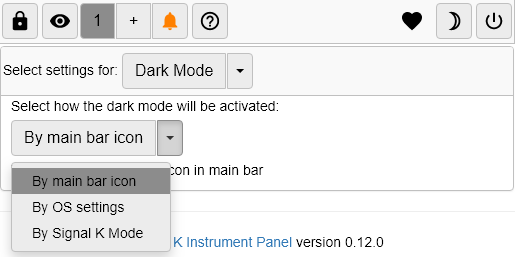
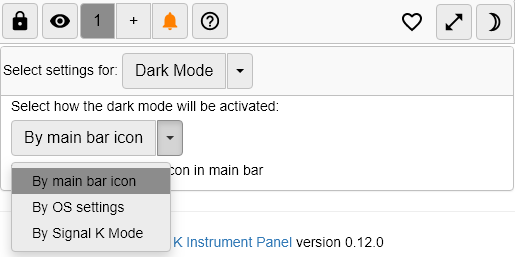
chore: updating help with new features

Changed region(s): [[0.8388, 0.0, 0.9942, 0.1556], [0.7767, 0.0311, 0.8388, 0.1245]]

diff --git a/lib/help/help.md b/lib/help/help.md
@@ -59,12 +59,18 @@ ___
         - [2.3.5. Save settings screen](#2_3_5)  
         - [2.3.6. Load settings screen](#2_3_6)  
 + [3. Options Available on the Widgets](#3)  
-    - [3.1. Changing Display Mode](#3_1)  
-    - [3.2. Wind Widget Modes](#3_2)  
-    - [3.3. Digital Position Modes](#3_3)  
-    - [3.4. Display SourceID](#3_4)  
-+ [4. Advanced options](#4)  
-+ [5. Trouble?](#5)  
+    - [3.1. Widget in full screen](#3_1)  
+    - [3.2. Changing Display Mode](#3_2)  
+    - [3.3. Wind Widget Modes](#3_3)  
+    - [3.4. Digital Position Modes](#3_4)  
+    - [3.5. Display SourceID](#3_5)  
++ [4. Full Screen mode & App mode](#4)  
+    - [4.1. Full Screen mode](#4_1)  
+    - [4.2. App mode](#4_2)  
+        - [4.2.1. On iPad or iPhone](#4_2_1)  
+        - [4.2.2. On Android](#4_2_2)  
++ [5. Advanced options](#5)  
++ [6. Trouble?](#6)  
   
 <a id="0"></a>
 **0. Introduction** [Back to main menu](#content)  
@@ -89,21 +95,18 @@ You must close the help page by clicking on the ![help-on](./help/help-on-icon.p
 <a id="1"></a>
 **1. Connect to your Signal K Server** [Back to main menu](#content)  
 ___
+The Signal K server address is directly derived from your web page and InstrumentPanel automatically connects to the server.  
 >
->![connect](./help/connect-new.png#maxwidth)  
+>![connect](./help/connecting.png#maxwidth)  
 >
-The address of the Signal K server is directly derived from your web page.  
-Click on the button to connect to the server.  
-The button's text changes to _Connecting_ indicate the connection status
- and once connected disappears. In most cases you won't see the _Connecting_ text at all.  
   
-If the _Connecting_ button reappears, it means that the connection
+If the _Reconnecting_ reappears, it means that the connection
  to the Signal K server is broken and that InstrumentPanel
  is trying to reconnect automatically.  
   
 For advanced users, you can manually specify the address and
  the protocol to connect to your Signal K server
- (See: [Advanced options](#4)).  
+ (See: [Advanced options](#5)).  
   
 <a id="2"></a>
 **2. Top Bar Buttons** [Back to main menu](#content)  
@@ -136,8 +139,8 @@ Click on it to see a list of your current alarms.
 When data is received it blinks every second.
  If the indicator is not blinking, either your connection is broken
  or the server is not sending any data and values displayed in your widgets may be obsolete.  
-- ![disconnect](./help/disconnect-icon.png) buttons: Click to disconnect from your Signal K server
- and to return to the initial state that allows you to specify the server to connect to (See:[Connect to ...](#1)).  
+- ![fullscreen](./help/fullscreen-icon.png) buttons: Click to switch to full screen mode.
+ This feature is not available on all devices.(See:[Full Screen mode ...](#4)).  
   
 After 15 seconds without user activity, the menu will automatically hide to free up space on the screen.  
 A small heart and a bell (when you have active notifications) are displayed at the top right of the screen.  
@@ -516,15 +519,21 @@ Click on ![button-reset-red.png](./help/button-reset-red.png) to load the [reset
 ___
   
 <a id="3_1"></a>
-**3.1. Changing Display Mode** [Back to up menu](#3)  
+**3.1. Widget in full screen** [Back to up menu](#3)  
+___
+- you can display a widget in full screen by clicking in the center of the widget.  
+- To return to normal view, click anywhere on the widget.  
+  
+<a id="3_2"></a>
+**3.2. Changing Display Mode** [Back to up menu](#3)  
 ___
 Some widgets have the ability to change their display mode directly.  
 They are identified by a ![clickme-icon](./help/clickme-icon.png) icon in the top left corner.  
 Click on this icon to change the display mode.  
 New display mode is automatically saved.  
   
-<a id="3_2"></a>
-**3.2. Wind Widget Modes** [Back to up menu](#3)  
+<a id="3_3"></a>
+**3.3. Wind Widget Modes** [Back to up menu](#3)  
 ___
 The wind widget displays by default apparent wind.  
 >
@@ -556,8 +565,8 @@ Enable the options for True Wind over Ground and True Wind through Water:
 >
 And then click on the ![DerivedData-submit](./help/plugin-DerivedData-submit.png) button to save and activate these options.  
   
-<a id="3_3"></a>
-**3.3. Digital Position Modes** [Back to up menu](#3)  
+<a id="3_4"></a>
+**3.4. Digital Position Modes** [Back to up menu](#3)  
 ___
 The Digital Position Widget can display your position in different formats:  
 - Dir D.ddddd° (N 38.99177°)  
@@ -569,8 +578,8 @@ You can change the display format by clicking on the ![clickme-icon](./help/clic
 The first click, displays the display format then the others clicks change the display format.  
 You have 5 seconds to repeat your clicks, after that the widget automatically displays its original label.  
   
-<a id="3_4"></a>
-**3.4. Display SourceID** [Back to up menu](#3)  
+<a id="3_5"></a>
+**3.5. Display SourceID** [Back to up menu](#3)  
 ___
 To display the source Id of a widget's data stream,
  click on to the top right corner of widget.  
@@ -583,7 +592,40 @@ To hide the source Id, just click in the displayed source Id field.
 >
   
 <a id="4"></a>
-**4. Advanced options** [Back to main menu](#content)  
+**4. Full Screen mode & App mode** [Back to main menu](#content)  
+___
+You can switch to full screen mode to make the URL bar disappear and save display space.  
+  
+<a id="4_1"></a>
+**4.1 Full Screen mode** [Back to up menu](#4)  
+___
+Click on the ![fullscreen](./help/fullscreen-icon.png) buttons in the main bar to switch to full screen mode.
+ This feature is not available on all devices (not works on all IOS devices, see:[App mode ...](#4_2)).  
+  
+<a id="4_2"></a>
+**4.2 App mode** [Back to up menu](#4)  
+___
+You can **add to Home Screen** InstrumentPanel on most mobile devices to use it as a mobile app.  
+  
+<a id="4_2_1"></a>
+**4.2.1 On iPad or iPhone** [Back to up menu](#4)  
+___
+1) Launch **Safari** app.  This does not work from the **Chrome** app.  
+2) Open **InstrumentPanel** URL in **Safari**.  
+3) Tap the icon featuring a right-pointing arrow coming out of a box along the top of the Safari window to open a drop-down menu.  
+4) Tap **Add to Home Screen** The Add to Home dialog box will appear, with the icon that will be used for this website on the left side of the dialog box.  
+5) Enter the name for the shortcut using the on-screen keyboard and tap **Add.** Safari will close automatically and you will be taken to where the icon is located on your iPad’s desktop.  
+  
+<a id="4_2_2"></a>
+**4.2.2 On Android** [Back to up menu](#4)  
+___
+1) Launch **Chrome** app.  
+2) Open **InstrumentPanel** URL in Chrome.  
+3) Tap the menu icon (3 dots in upper right-hand corner) and tap **Add to homescreen** .  
+4) You’ll be able to enter a name for the shortcut and then Chrome will add it to your home screen.  
+  
+<a id="5"></a>
+**5. Advanced options** [Back to main menu](#content)  
 ___
 For advanced users, you can manually specify the address and the protocol to connect to your Signal K server.
 Be careful if you mix secure and unsecured protocols, your browser may refuse the connection.  
@@ -591,8 +633,8 @@ To manually specify the address and the protocol of the Signal K server,
  add the following query parameter **?signalkServer=wss://mysignalk.local:3443** to the url.  
 Use **wss://** for secure websocket or **ws://** for unsecure websocket.  
   
-<a id="5"></a>
-**5. Trouble?** [Back to main menu](#content)  
+<a id="6"></a>
+**6. Trouble?** [Back to main menu](#content)  
 ___
 InstrumentPanel stores some of its settings in the browser's local storage.  
 In case you have invalid stuff displayed, you can reset it
